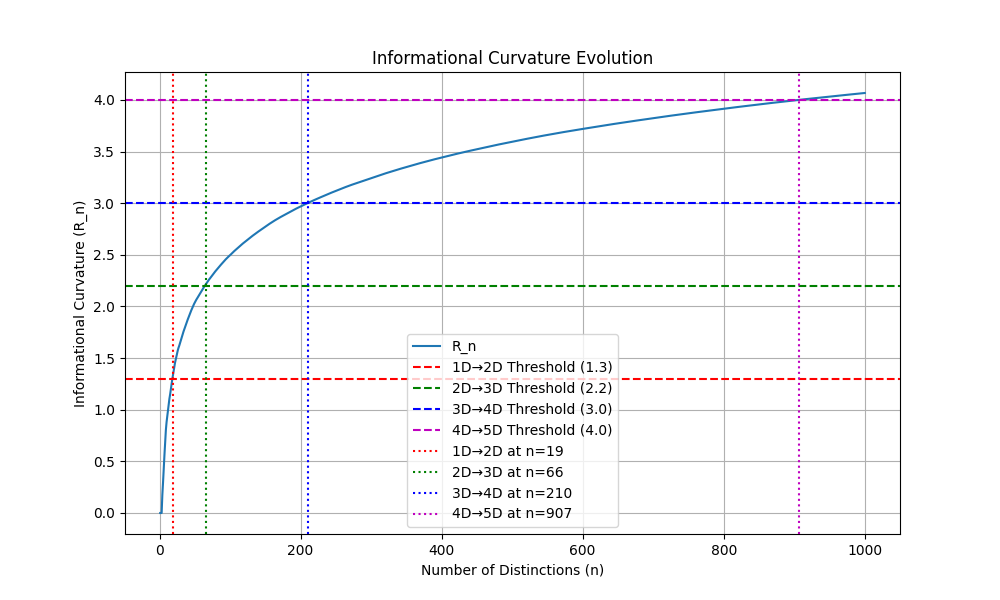
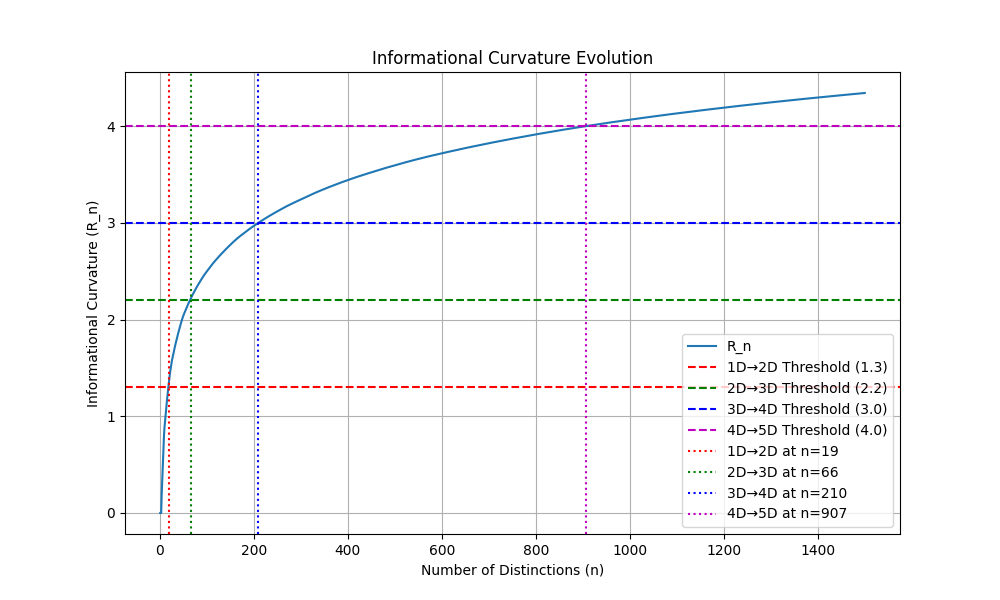
modified:   GU_DIM_Trans.py modified:   eigenvalue_ratios.png modified:   golomb_ruler_growth.png modified:   informational_curvature.png modified:   mutual_information_matrix.png

diff --git a/GU_DIM_Trans.py b/GU_DIM_Trans.py
@@ -120,7 +120,7 @@ def compute_embedding(G, dim):
 
 def check_transitions(G, d_min, l_info, R_n):
     n = len(G)
-    if n < 10:
+    if n < 10:                                                                                   
         return False, False, False, False, 0.0, 0.0, 0.0, 0.0
 
     try:
@@ -129,7 +129,7 @@ def check_transitions(G, d_min, l_info, R_n):
         L = D - W 
                                                                
         eigenvalues = eigh(L, eigvals_only=True, subset_by_index=[0, 5])
-        λ0, λ1, λ2, λ3, λ4, λ5 = eigenvalues
+        λ0, λ1, λ2, λ3, λ4, λ5 = eigenvalues                                                     
 
         λ1 = max(λ1, 1e-8)
         λ2 = max(λ2, 1e-8)
@@ -142,7 +142,7 @@ def check_transitions(G, d_min, l_info, R_n):
         r3 = λ4 / λ3  # For 3D→4D
         r4 = λ5 / λ4  # For 4D→5D
 
-        transition_2D = (r1 > 1.3 and R_n > 1.3)
+        transition_2D = (r1 > 1.3 and R_n > 1.3)                                                 
         transition_3D = (r2 > 1.15 and R_n > 2.2)
         transition_4D = (r3 > 1.01 and R_n > 3.0)
         transition_5D = (r4 > 1.00 and R_n > 4.0)
@@ -179,12 +179,12 @@ def plot_results(G_full, results, metrics_history):
     plt.legend()
     plt.savefig('golomb_ruler_growth.png')
     plt.show()
-    plt.close()
+    plt.close()                                                                                  
 
     # Plot 2: Mutual Information Matrix at n_max
     _, _, _, W = compute_metrics(G_full)
     plt.figure(figsize=(8, 6))
-    plt.imshow(W, cmap='magma', interpolation='nearest')
+    plt.imshow(W, cmap='magma', interpolation='bilinear')
     plt.colorbar(label='Mutual Information I(X_i; X_j)')
     plt.title(f'Mutual Information Matrix at n={n_max}')
     plt.xlabel('Distinction i')
@@ -325,11 +325,12 @@ def print_validation(G, results):
         d_min, l_info, R_n, W = compute_metrics(G_2D)
         _, _, _, _, r1, r2, r3, r4 = check_transitions(G_2D, d_min, l_info, R_n)
         
-        # Compute energy functional (Axiom V)
+        # Compute energy functional (Axiom V) with corrected dynamic scale
         n = len(G_2D)
         d_ij = 1 / (1 + W)
         np.fill_diagonal(d_ij, np.inf)
-        E_n = np.sum(np.abs(1 / d_ij[d_ij < np.inf]**2 - 1 / l_info**2)) / 2
+        l_eff = np.min(d_ij[d_ij < np.inf])  # Dynamic scale: min d(i,j)
+        E_n = np.sum(1 / l_eff**2 - 1 / d_ij[d_ij < np.inf]**2) / 2
         
         # Compute spectral gaps
         D = np.diag(np.sum(W, axis=1))
@@ -361,13 +362,14 @@ def print_validation(G, results):
         d_min, l_info, R_n, W = compute_metrics(G_3D)
         _, _, _, _, r1, r2, r3, r4 = check_transitions(G_3D, d_min, l_info, R_n)
         
-        # Compute energy functional
+        # Compute energy functional with corrected dynamic scale
         n = len(G_3D)
         d_ij = 1 / (1 + W)
         np.fill_diagonal(d_ij, np.inf)
-        E_n = np.sum(np.abs(1 / d_ij[d_ij < np.inf]**2 - 1 / l_info**2)) / 2
+        l_eff = np.min(d_ij[d_ij < np.inf])  # Dynamic scale: min d(i,j)
+        E_n = np.sum(1 / l_eff**2 - 1 / d_ij[d_ij < np.inf]**2) / 2
         
-        # Compute spectral gaps
+        # Compute spectral gaps                                               
         D = np.diag(np.sum(W, axis=1))
         L = D - W
         eigenvalues = eigh(L, eigvals_only=True, subset_by_index=[0, 5])
@@ -382,7 +384,7 @@ def print_validation(G, results):
         embedding_3D = compute_embedding(G_3D, 3)
         euclidean_dists = np.sqrt(np.sum((embedding_3D[:, None] - embedding_3D)**2, axis=2))
         np.fill_diagonal(d_ij, 0)
-        distortion = np.mean((euclidean_dists - d_ij)**2 / (d_ij**2 + 1e-16))
+        distortion = np.mean((euclidean_dists - d_ij)**2 / (d_ij**2 + 1e-16)) 
         
         print(f"\n2D→3D Transition at n={results['3D']}:")
         print(f"  λ₃/λ₂ = {r2:.3f} (> 1.15: {'Valid' if r2 > 1.15 else 'Invalid'})")
@@ -397,11 +399,12 @@ def print_validation(G, results):
         d_min, l_info, R_n, W = compute_metrics(G_4D)
         _, _, _, _, r1, r2, r3, r4 = check_transitions(G_4D, d_min, l_info, R_n)
         
-        # Compute energy functional
+        # Compute energy functional with corrected dynamic scale
         n = len(G_4D)
         d_ij = 1 / (1 + W)
         np.fill_diagonal(d_ij, np.inf)
-        E_n = np.sum(np.abs(1 / d_ij[d_ij < np.inf]**2 - 1 / l_info**2)) / 2
+        l_eff = np.min(d_ij[d_ij < np.inf])  # Dynamic scale: min d(i,j)
+        E_n = np.sum(1 / l_eff**2 - 1 / d_ij[d_ij < np.inf]**2) / 2           
         
         # Compute spectral gaps
         D = np.diag(np.sum(W, axis=1))
@@ -433,15 +436,16 @@ def print_validation(G, results):
         d_min, l_info, R_n, W = compute_metrics(G_5D)
         _, _, _, _, r1, r2, r3, r4 = check_transitions(G_5D, d_min, l_info, R_n)
         
-        # Compute energy functional
+        # Compute energy functional with corrected dynamic scale
         n = len(G_5D)
         d_ij = 1 / (1 + W)
         np.fill_diagonal(d_ij, np.inf)
-        E_n = np.sum(np.abs(1 / d_ij[d_ij < np.inf]**2 - 1 / l_info**2)) / 2
-																	 
+        l_eff = np.min(d_ij[d_ij < np.inf])  # Dynamic scale: min d(i,j)
+        E_n = np.sum(1 / l_eff**2 - 1 / d_ij[d_ij < np.inf]**2) / 2
+        
         # Compute spectral gaps
         D = np.diag(np.sum(W, axis=1))
-        L = D - W
+        L = D - W                                                             
         eigenvalues = eigh(L, eigvals_only=True, subset_by_index=[0, 5])
         λ0, λ1, λ2, λ3, λ4, λ5 = eigenvalues
         gap1 = λ1
@@ -498,12 +502,12 @@ def simulate(n_max):
             results["3D"] = n
         if t4d and results["3D"] is not None and results["4D"] is None:
             results["4D"] = n
-        if t5d and results["4D"] is not None and results["5D"] is None:
+        if t5d and results["4D"] is not None and results["5D"] is None:       
             results["5D"] = n
 
         if n % 10 == 0:
             print(f"Progress: n={n}, d_min={d_min:.3f}, l_info={l_info:.3f}, R_n={R_n:.3f}")
-    
+																			  
     # Generate and display plots
     plot_results(G_full, results, (ns, d_mins, l_infos, R_ns, r1s, r2s, r3s, r4s))
     
@@ -517,7 +521,7 @@ def simulate(n_max):
 
 # Run simulation                                                                  
 print("Starting simulation...")
-results = simulate(1000)
+results = simulate(1500)
 print("\nFinal Results:")
 print(f"1D→2D transition at n={results['2D']}")
 print(f"2D→3D transition at n={results['3D']}")
